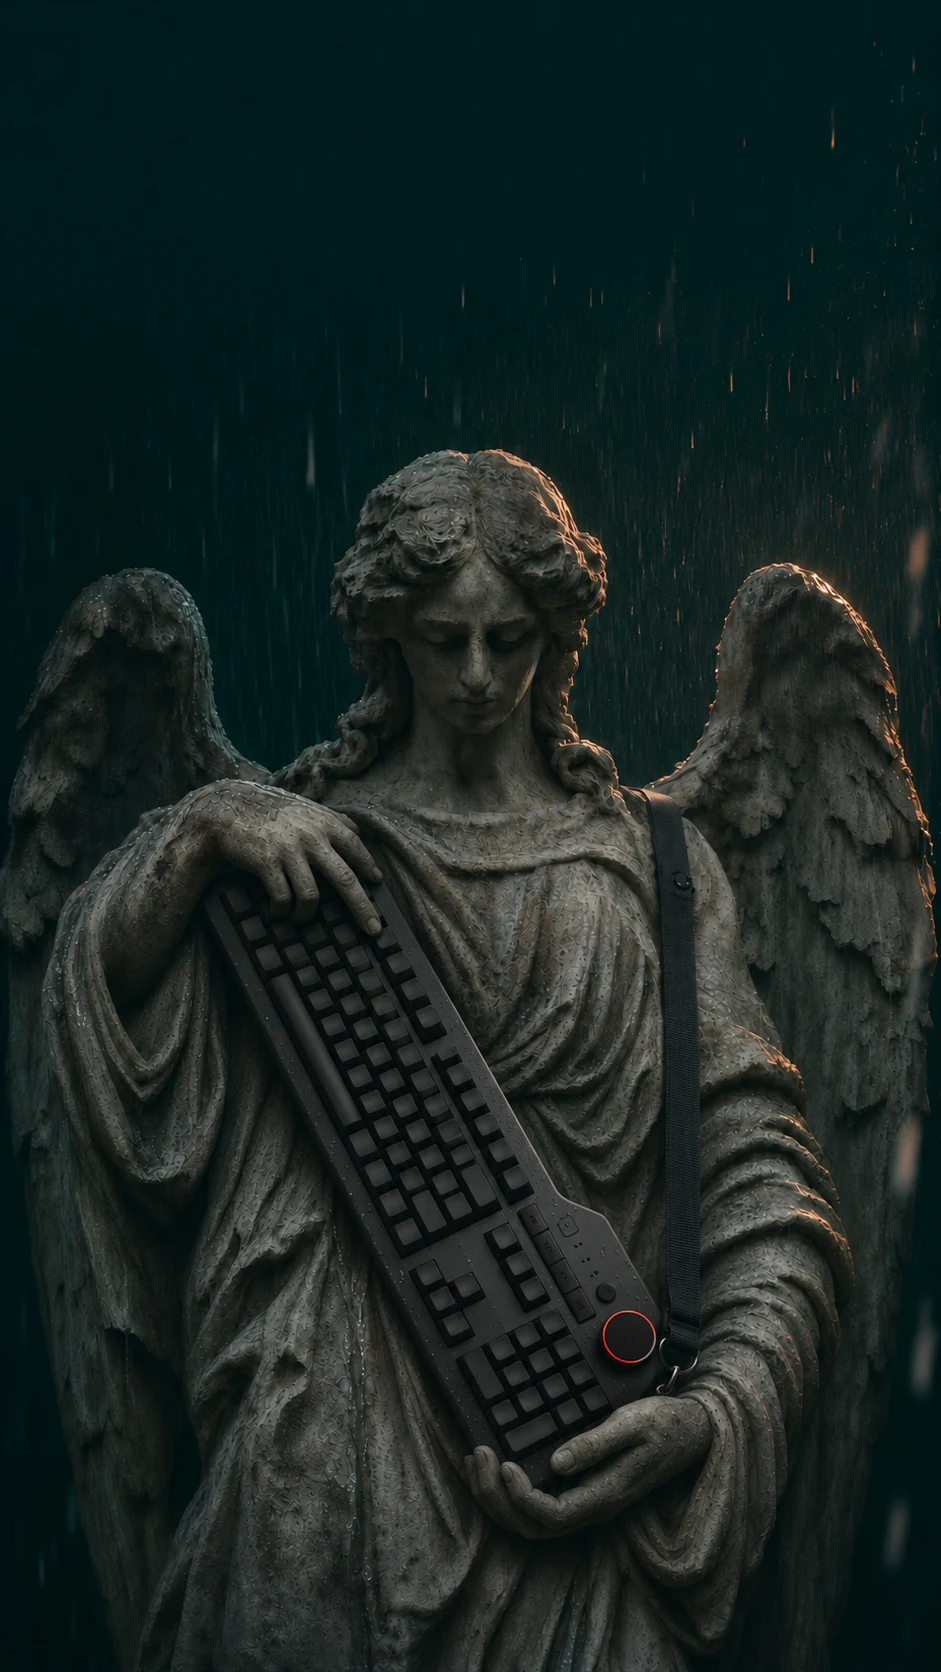
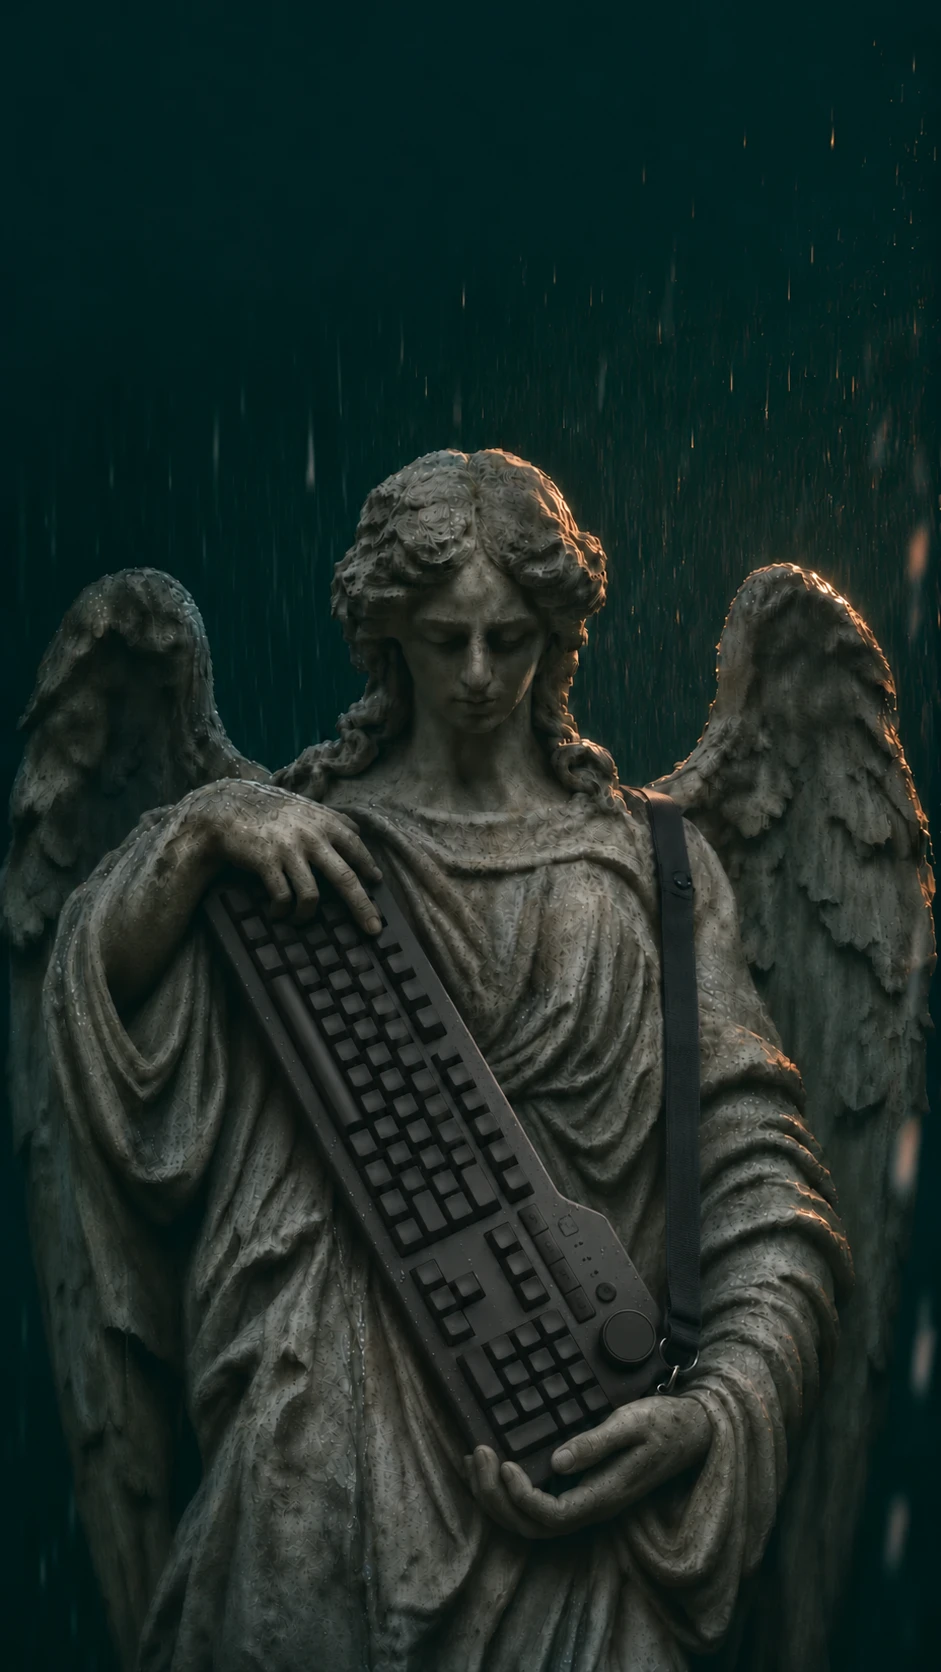
Move the AI prompt above the profile and refine the footer

diff --git a/index.html b/index.html
@@ -21,7 +21,7 @@
   <meta name="twitter:card" content="summary_large_image">
   <meta name="twitter:image" content="https://benohanlon.md/assets/adventure-a4-pocket-social.jpg">
   <meta name="twitter:image:alt" content="Journey to the Centre of the Problem, a worn illustrated paperback tucked into a dark teal pocket.">
-  <link rel="stylesheet" href="./assets/site.css?v=paperback-and-amber-rain">
+  <link rel="stylesheet" href="./assets/site.css?v=prompt-above-profile">
 </head>
 <body>
   <main class="profile-page">
@@ -43,21 +43,45 @@
         </span>
       </a>
     </div>
+    <section class="profile-prompt" aria-labelledby="prompt-heading">
+      <h2 class="prompt-heading" id="prompt-heading" tabindex="-1">Copy and paste this into your AI</h2>
+      <blockquote id="prompt" aria-labelledby="prompt-heading">
+    <!-- Begin generated prompt -->
+<p>Visit benohanlon.md and run a choose-your-own-adventure from the Markdown. Give me choices and I’ll reply.</p>
+    <!-- End generated prompt -->
+      </blockquote>
+      <div class="prompt-actions" id="prompt-actions" hidden>
+        <button class="copy-button" id="copy" type="button"><span class="copy-icon" aria-hidden="true"></span>Copy prompt</button>
+        <div class="prompt-openers">
+          <span>Open in</span>
+          <div class="providers" role="group" aria-label="Open in your AI">
+            <a id="chatgpt" target="_blank" rel="noopener noreferrer" aria-label="Open in ChatGPT" title="ChatGPT">
+              <img src="./assets/chatgpt.svg" width="26" height="26" alt="">
+            </a>
+            <a id="claude" target="_blank" rel="noopener noreferrer" aria-label="Open in Claude" title="Claude">
+              <img src="./assets/claude.svg" width="26" height="26" alt="">
+            </a>
+            <a id="gemini" href="https://gemini.google.com/app" target="_blank" rel="noopener noreferrer" aria-label="Copy prompt and open Gemini" title="Gemini">
+              <img src="./assets/gemini.png" width="26" height="26" alt="">
+            </a>
+          </div>
+        </div>
+      </div>
+      <p id="copy-status" role="status"></p>
+    </section>
     <header class="hero">
       <div class="profile-record">
     <!-- Begin generated role -->
 <p class="hero-role">Growth &amp; Marketing Executive</p>
     <!-- End generated role -->
-        <span>benohanlon.md</span>
+        <a class="profile-source" href="./benohanlon.md" type="text/markdown" aria-label="Read benohanlon.md">benohanlon.md</a>
       </div>
       <div class="profile-story">
     <!-- Begin generated introduction -->
 <h1 id="ben-o-hanlon">Ben O’Hanlon</h1>
 <div class="hero-positioning">
 <p>I solve growth, adoption and distribution problems for open and decentralised technologies and protocols by building ecosystems and leading developer marketing. I build and lead teams that drive growth beyond headcount by extending what they can do through partnerships, community, developer relations and AI.</p>
-<p>I act as an interface for impact. Numbers come before strategy. I start by establishing what would benefit the ecosystem as a whole and expressing it in a few system-wide units of account. Those numbers make the winning conditions visible and give teams inside and outside the company a shared basis for coordinating without direct authority.</p>
-<p>Each team sees a different part of the system. I go to them to understand their work as they see it, what they value, what shapes their decisions and what they count as progress. That lets me show them, in terms they already use, how shared capabilities can advance their own priorities and contribute to the ecosystem as a whole.</p>
-<p>I worked on Cardano’s ecosystem from the Shelley Incentivized Testnet, first at the Cardano Foundation and then at IOHK, where I built and led its ecosystem function. Ada reached #3 by market cap in 2021. I helped build its on-chain governance and led Input Output’s continuity campaign, which secured ₳195 million in treasury funding, including ₳123.7 million for research and engineering. We built our customer, who then chose to pay us. At RealFi, I led community and partner activation for the launch of stablecoin and real-world asset infrastructure connecting on-chain capital with private credit.</p>
+<p>I led Input Output’s continuity campaign. Cardano’s community approved about ₳195 million in treasury funding for the company across five proposals.</p>
 </div>
     <!-- End generated introduction -->
       </div>
@@ -68,34 +92,6 @@
         <a href="#work-with-me">Work with me</a>
         <a class="agent-instructions-jump" href="#agent-instructions">Agent instructions</a>
         <a href="./benohanlon.md" download="benohanlon.md" type="text/markdown">Download Markdown</a>
-      </div>
-      <div class="intro">
-        <section class="profile-prompt" aria-labelledby="prompt-heading">
-          <h2 class="prompt-heading" id="prompt-heading" tabindex="-1">Copy and paste this into your AI</h2>
-          <blockquote id="prompt" aria-labelledby="prompt-heading">
-    <!-- Begin generated prompt -->
-<p>Visit benohanlon.md and run a choose-your-own-adventure from the Markdown. Give me choices and I’ll reply.</p>
-    <!-- End generated prompt -->
-          </blockquote>
-          <div class="prompt-actions" id="prompt-actions" hidden>
-            <button class="copy-button" id="copy" type="button"><span class="copy-icon" aria-hidden="true"></span>Copy prompt</button>
-            <div class="prompt-openers">
-              <span>Open in</span>
-              <div class="providers" role="group" aria-label="Open in your AI">
-                <a id="chatgpt" target="_blank" rel="noopener noreferrer" aria-label="Open in ChatGPT" title="ChatGPT">
-                  <img src="./assets/chatgpt.svg" width="26" height="26" alt="">
-                </a>
-                <a id="claude" target="_blank" rel="noopener noreferrer" aria-label="Open in Claude" title="Claude">
-                  <img src="./assets/claude.svg" width="26" height="26" alt="">
-                </a>
-                <a id="gemini" href="https://gemini.google.com/app" target="_blank" rel="noopener noreferrer" aria-label="Copy prompt and open Gemini" title="Gemini">
-                  <img src="./assets/gemini.png" width="26" height="26" alt="">
-                </a>
-              </div>
-            </div>
-          </div>
-          <p id="copy-status" role="status"></p>
-        </section>
       </div>
     </header>
     <article class="profile" id="profile" aria-label="About Ben O’Hanlon">
@@ -153,6 +149,9 @@
 <p><em>Open standards &amp; ecosystem coordination</em></p>
 <p>As Cardano prepared for Shelley in 2020, contributors needed a public way to propose technical changes and get feedback from people who would use them. I worked with Frederic Johnson on contributor guidance for Cardano Improvement Proposals and invited public feedback as we introduced the process. The process gave people a shared way to state a problem, put forward a design and invite technical review. A later proposal, CIP-31, became part of the Vasil upgrade. It let applications read information on the blockchain without spending the transaction output that held it. <a href="https://github.com/benohanlon/ecosystem-operator-collective-public/blob/main/cases/README.md#giving-developers-a-way-to-shape-shared-standards">Read the case</a></p>
 </div>
+<h2 id="interface-for-impact">Interface for impact</h2>
+<p>I act as an interface for impact. Numbers come before strategy. I start by establishing what would benefit the ecosystem as a whole and expressing it in a few system-wide units of account. Those numbers make the winning conditions visible and give teams inside and outside the company a shared basis for coordinating without direct authority.</p>
+<p>Each team sees a different part of the system. I go to them to understand their work as they see it, what they value, what shapes their decisions and what they count as progress. That lets me show them, in terms they already use, how shared capabilities can advance their own priorities and contribute to the ecosystem as a whole.</p>
 <h2 id="writing-and-projects">Writing and projects</h2>
 <ul>
 <li><a href="https://github.com/benohanlon/ecosystem-operator-collective-public/blob/main/eos-playbook/README.md">How I work</a> is my Ecosystem Operating System playbook. It shows how teams with their own priorities can find and use shared capabilities to solve problems they care about.</li>
@@ -201,12 +200,18 @@
   <div class="closing-artwork" id="closing-artwork">
     <figure class="closing-portrait">
       <picture>
-        <source media="(min-width: 43rem)" srcset="./assets/angel-in-amber-rain-wide.webp?v=keyboard-pose" width="1402" height="1122">
-        <img src="./assets/angel-in-amber-rain-das.webp?v=keyboard-pose" width="941" height="1672" loading="lazy" alt="A weathered stone angel in amber-lit rain cradles a black mechanical keyboard on a shoulder strap.">
+        <source media="(min-width: 43rem)" srcset="./assets/angel-in-amber-rain-wide.webp?v=unlit-dial" width="1402" height="1122">
+        <img src="./assets/angel-in-amber-rain-das.webp?v=unlit-dial" width="941" height="1672" loading="lazy" alt="A weathered stone angel in amber-lit rain cradles a black mechanical keyboard on a shoulder strap.">
       </picture>
       <figcaption class="closing-caption">The war is spiritual</figcaption>
     </figure>
-    <a class="closing-link" href="https://sovereignharness.io/">Sovereign Harness <span aria-hidden="true">↗</span></a>
+    <a class="closing-link" href="https://sovereignharness.io/">
+      Sovereign Harness
+      <svg class="closing-click-icon" width="19" height="19" viewBox="0 0 24 24" fill="none" stroke="currentColor" stroke-width="1.65" stroke-linecap="round" stroke-linejoin="round" aria-hidden="true" focusable="false">
+        <rect x="5" y="7" width="11" height="15" rx="5.5"/>
+        <path d="M10.5 7v5M16.5 5l1.5-2M19 8l2.5-1M12 4V2"/>
+      </svg>
+    </a>
   </div>
   <script src="./scripts/profile-launcher.js?v=agent-instructions"></script>
 </body>

diff --git a/assets/site.css b/assets/site.css
@@ -20,6 +20,7 @@
   --dark: #031c1d;
   --mint: #b8f4dc;
   --orange: #f17435;
+  --light-amber: #ffdb9e;
   --line: #315857;
   --panel: #0a2628;
   --cover-paper: url('./adventure-paperback-cover.webp');
@@ -180,10 +181,9 @@ a:hover { color: var(--orange); }
 .hero {
   display: grid;
   grid-template-columns: minmax(0, 34rem) minmax(9rem, 1fr);
-  grid-template-areas: "record record" "story photo" "actions actions" "tools tools";
+  grid-template-areas: "record record" "story photo" "actions actions";
   gap: .8rem 1.5rem;
   padding: clamp(1.2rem, 3vw, 2rem) 0;
-  border-top: 1px solid var(--line);
 }
 .profile-record {
   grid-area: record;
@@ -198,7 +198,7 @@ a:hover { color: var(--orange); }
   line-height: 1.35;
 }
 .profile-record .hero-role { margin: 0; font-weight: 600; }
-.profile-record span { flex: none; font-family: "IBM Plex Mono", Consolas, monospace; font-weight: 500; }
+.profile-source { flex: none; font-family: "IBM Plex Mono", Consolas, monospace; font-weight: 500; }
 .profile-story { grid-area: story; }
 .profile-story h1 {
   color: var(--orange);
@@ -217,8 +217,6 @@ p { margin: 0 0 1rem; }
   align-items: center;
   min-height: 2.75rem;
 }
-.hero .intro { grid-area: tools; }
-.hero .profile-prompt { margin-top: 0; }
 .prompt-heading {
   margin: 1.2rem 0 .45rem;
   color: var(--mint);
@@ -245,6 +243,7 @@ p { margin: 0 0 1rem; }
 }
 .providers img { display: block; width: 1.6rem; height: 1.6rem; object-fit: contain; }
 .providers a:hover img { filter: brightness(1.14); }
+#chatgpt img { filter: brightness(0) invert(1); }
 .copy-button {
   min-height: 2.75rem;
   padding: 0;
@@ -287,7 +286,7 @@ summary:hover { color: var(--orange); }
   align-items: center;
   gap: .6rem;
   max-width: 36rem;
-  margin-top: 1.15rem;
+  margin-top: .6rem;
   padding: .55rem .75rem 0;
   border: 1px solid var(--line);
   border-radius: .4rem;
@@ -308,7 +307,7 @@ summary:hover { color: var(--orange); }
   max-width: none;
   padding: .55rem .65rem;
   background: transparent;
-  color: #ffdb9e;
+  color: var(--light-amber);
   font-size: .98rem;
 }
 .profile-prompt #prompt::before {
@@ -410,7 +409,7 @@ summary:hover { color: var(--orange); }
   .profile-contact a:is([title="Substack"], [title="GitHub"], [title="X"], [title="LinkedIn"], [title="Telegram"], [title="Linktree"]) { width: auto; font-size: .875rem; }
   .profile-contact a:is([title="Substack"], [title="GitHub"], [title="X"], [title="LinkedIn"], [title="Telegram"], [title="Linktree"])::before { display: none; }
 }
-.profile-cases h3 { margin-bottom: .13rem; }
+.profile-cases h3 { color: var(--light-amber); margin-bottom: .13rem; }
 .profile-cases h3:first-child { margin-top: 0; }
 .profile-cases h3:not(:first-child) { padding-top: 1.05rem; border-top: 1px solid var(--line); }
 .profile-cases h3 + p { color: #b0ccc5; margin: 0 0 .57rem; font-size: .87rem; font-weight: 500; }
@@ -481,7 +480,7 @@ summary:hover { color: var(--orange); }
   text-decoration: none;
   text-shadow: 0 -1px 1px #101b18;
 }
-.closing-link span { color: #e1b18b; }
+.closing-click-icon { flex: none; color: #e1b18b; }
 .closing-link:hover, .closing-link:focus-visible {
   border-top-color: #a4805e;
   color: #fff3e2;
@@ -505,7 +504,7 @@ summary:hover { color: var(--orange); }
 @media (max-width: 38rem) {
   .hero {
     grid-template-columns: minmax(0, 1fr) 4.1rem;
-    grid-template-areas: "record record" "name photo" "bio bio" "actions actions" "tools tools";
+    grid-template-areas: "record record" "name photo" "bio bio" "actions actions";
     gap: .6rem .45rem;
   }
   .profile-record { font-size: .78rem; }

diff --git a/adventure.html b/adventure.html
@@ -7,7 +7,7 @@
   <meta name="theme-color" content="#031c1d">
   <link rel="canonical" href="https://benohanlon.md/adventure.html">
   <link rel="alternate" type="text/markdown" href="https://benohanlon.md/benohanlon.md" title="Ben O’Hanlon’s profile as Markdown">
-  <link rel="stylesheet" href="./assets/site.css?v=pocket-arrow">
+  <link rel="stylesheet" href="./assets/site.css?v=prompt-above-profile">
   <title>Journey to the Centre of the Problem | Ben O’Hanlon</title>
   <meta property="og:type" content="website">
   <meta property="og:url" content="https://benohanlon.md/adventure.html">

diff --git a/benohanlon.md b/benohanlon.md
@@ -4,11 +4,7 @@ Growth & Marketing Executive
 
 I solve growth, adoption and distribution problems for open and decentralised technologies and protocols by building ecosystems and leading developer marketing. I build and lead teams that drive growth beyond headcount by extending what they can do through partnerships, community, developer relations and AI.
 
-I act as an interface for impact. Numbers come before strategy. I start by establishing what would benefit the ecosystem as a whole and expressing it in a few system-wide units of account. Those numbers make the winning conditions visible and give teams inside and outside the company a shared basis for coordinating without direct authority.
-
-Each team sees a different part of the system. I go to them to understand their work as they see it, what they value, what shapes their decisions and what they count as progress. That lets me show them, in terms they already use, how shared capabilities can advance their own priorities and contribute to the ecosystem as a whole.
-
-I worked on Cardano’s ecosystem from the Shelley Incentivized Testnet, first at the Cardano Foundation and then at IOHK, where I built and led its ecosystem function. Ada reached #3 by market cap in 2021. I helped build its on-chain governance and led Input Output’s continuity campaign, which secured ₳195 million in treasury funding, including ₳123.7 million for research and engineering. We built our customer, who then chose to pay us. At RealFi, I led community and partner activation for the launch of stablecoin and real-world asset infrastructure connecting on-chain capital with private credit.
+I led Input Output’s continuity campaign. Cardano’s community approved about ₳195 million in treasury funding for the company across five proposals.
 
 Last reviewed: 18 November 2026 · [Web profile](https://benohanlon.md/) · [Résumé](https://my.visualcv.com/growth/)
 
@@ -124,6 +120,12 @@ As Cardano moved to full on-chain governance, delegated representatives (DReps) 
 *Open standards & ecosystem coordination*
 
 As Cardano prepared for Shelley in 2020, contributors needed a public way to propose technical changes and get feedback from people who would use them. I worked with Frederic Johnson on contributor guidance for Cardano Improvement Proposals and invited public feedback as we introduced the process. The process gave people a shared way to state a problem, put forward a design and invite technical review. A later proposal, CIP-31, became part of the Vasil upgrade. It let applications read information on the blockchain without spending the transaction output that held it. [Read the case](https://benohanlon.md/cases/README.md#giving-developers-a-way-to-shape-shared-standards)
+
+## Interface for impact
+
+I act as an interface for impact. Numbers come before strategy. I start by establishing what would benefit the ecosystem as a whole and expressing it in a few system-wide units of account. Those numbers make the winning conditions visible and give teams inside and outside the company a shared basis for coordinating without direct authority.
+
+Each team sees a different part of the system. I go to them to understand their work as they see it, what they value, what shapes their decisions and what they count as progress. That lets me show them, in terms they already use, how shared capabilities can advance their own priorities and contribute to the ecosystem as a whole.
 
 ## Writing and projects
 
